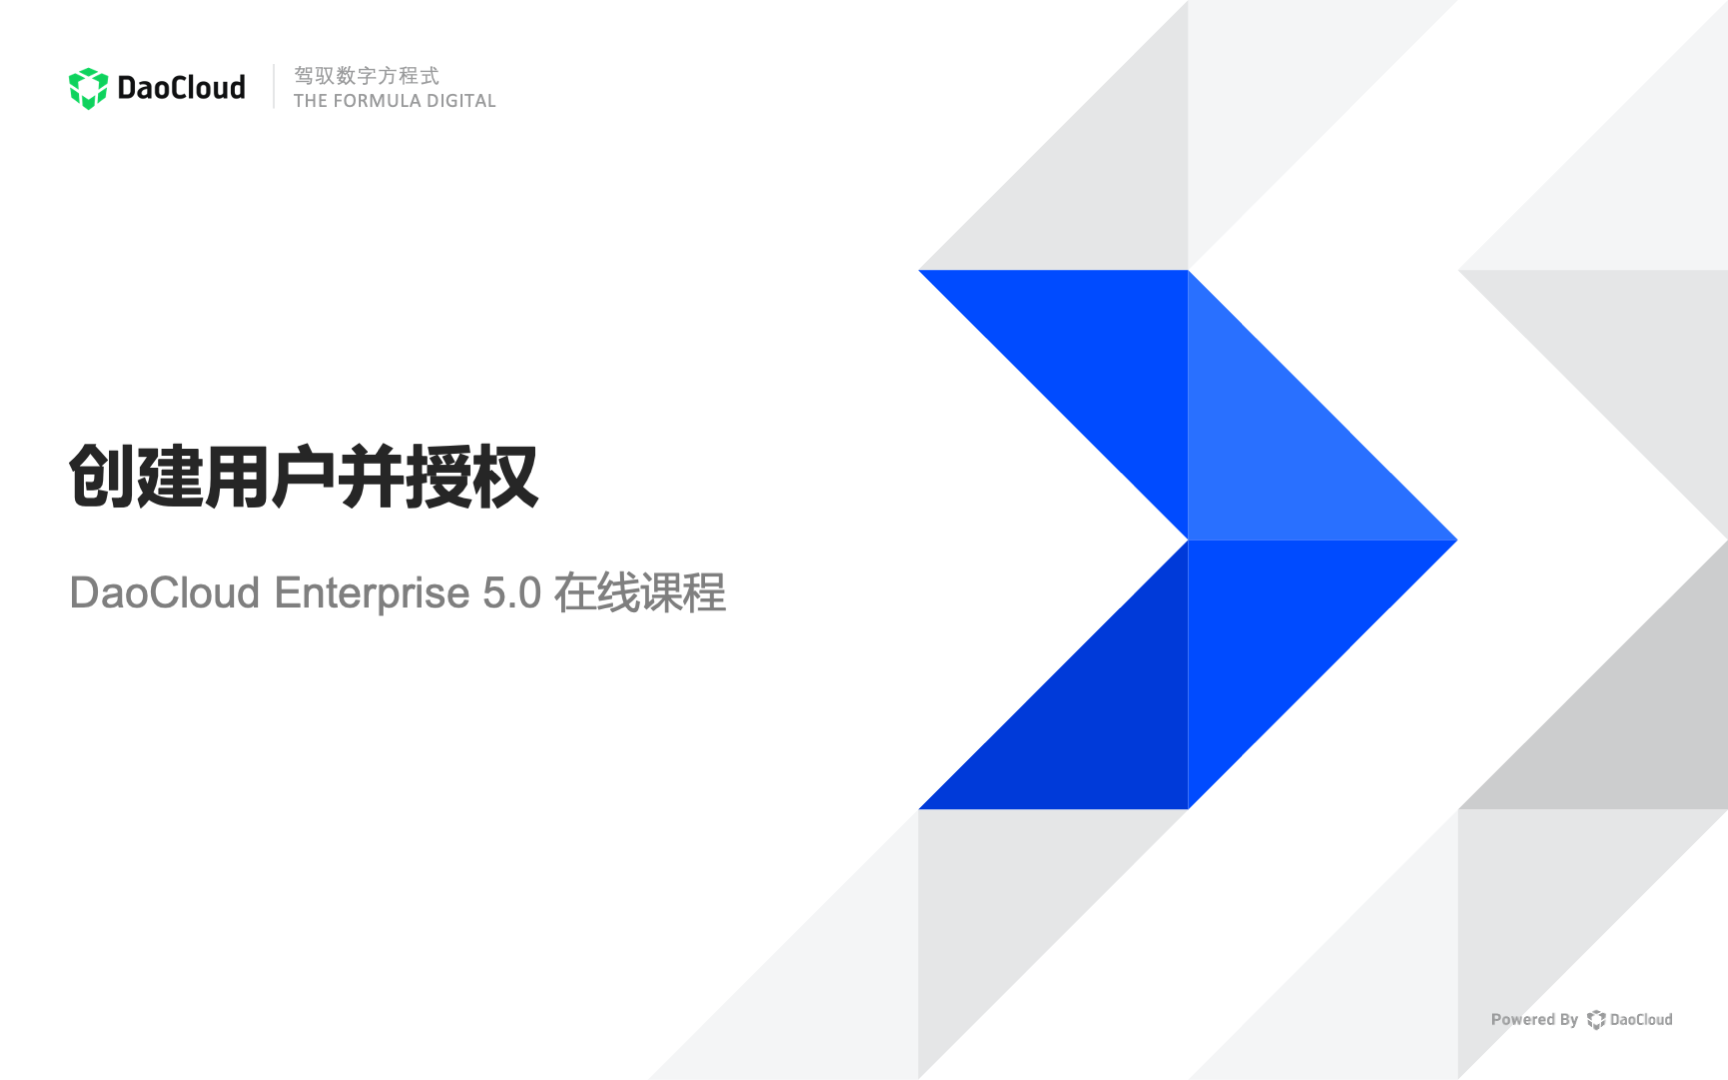
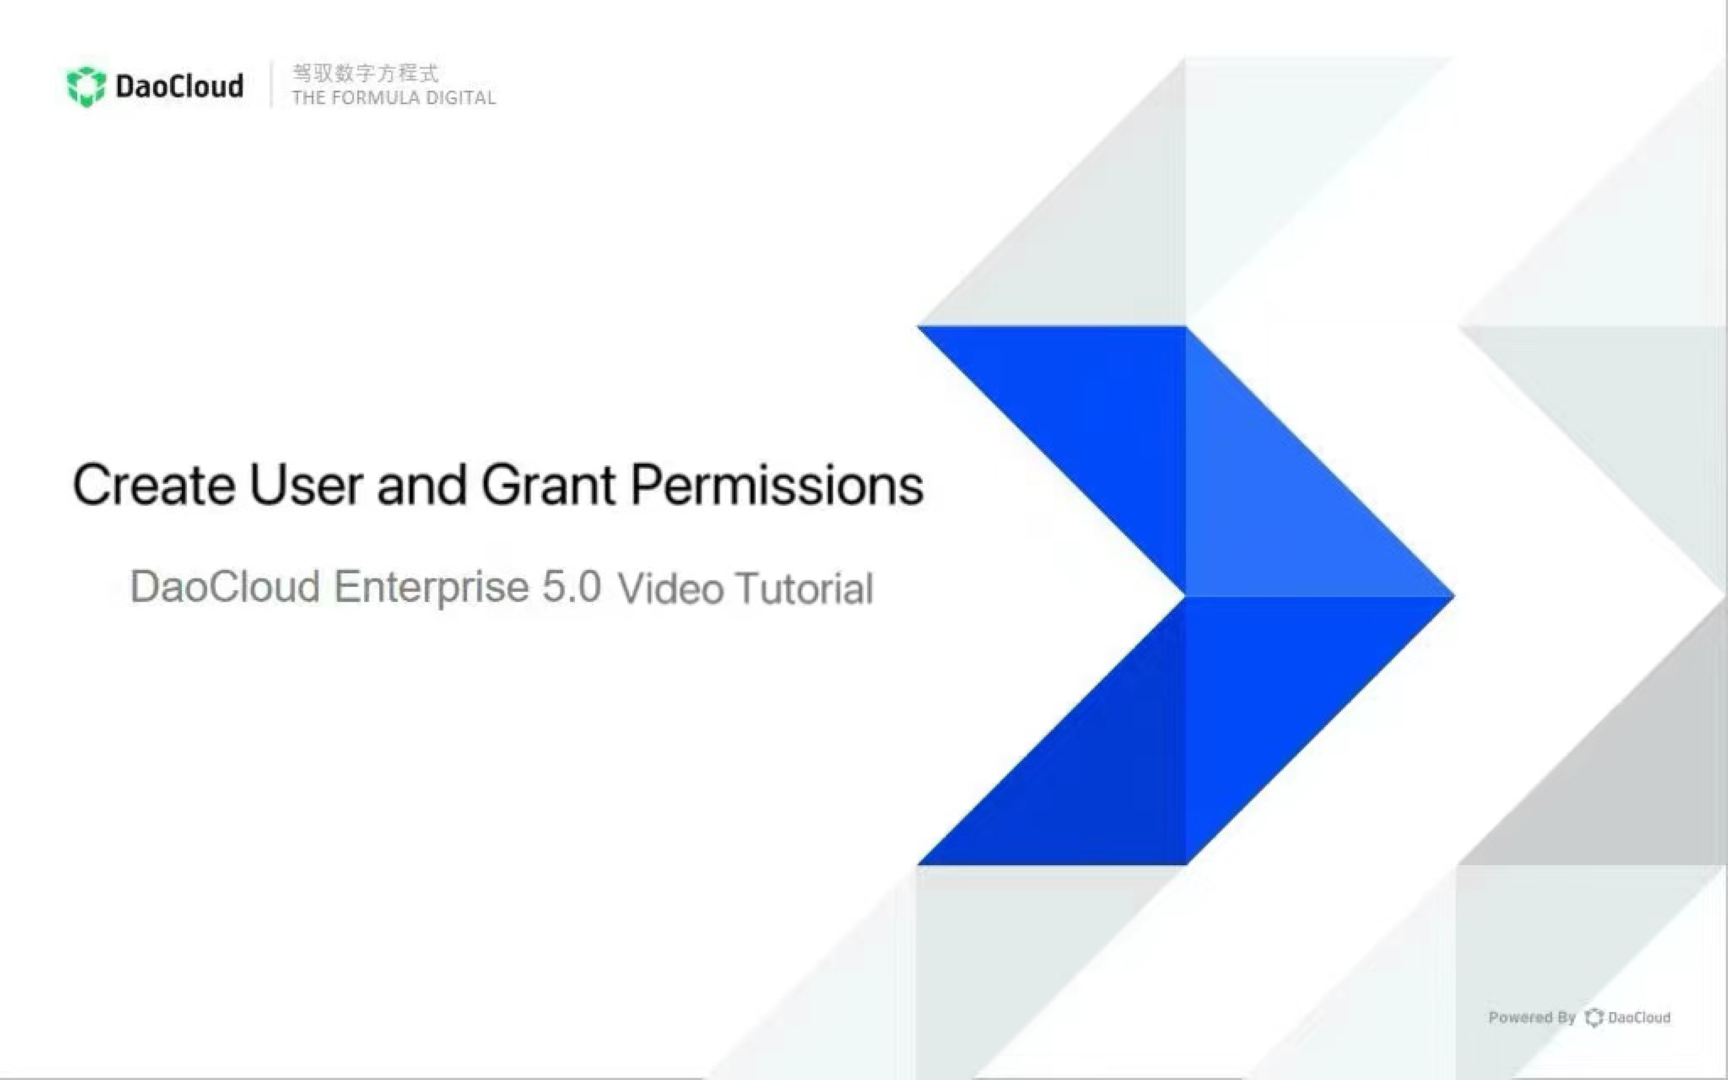
update a video and a picture in en/videos/ghippo.html

diff --git a/docs/en/docs/videos/ghippo.md b/docs/en/docs/videos/ghippo.md
@@ -12,7 +12,7 @@ We sincerely appreciate any feedback you may have. Thank you 🙏
 Refer to the [Create Users and Grant Permissions](../ghippo/user-guide/access-control/user.md) documentation page.
 
 <div class="responsive-video-container">
-<video controls src="https://harbor-test2.cn-sh2.ufileos.com/docs/videos/create-user.mp4" preload="metadata" poster="images/ghippo-user.png"></video>
+<video controls src="https://harbor-test2.cn-sh2.ufileos.com/docs/videos/create-user-en.mp4" preload="metadata" poster="images/ghippo-user.png"></video>
 </div>
 
 ### Integration with LDAP Users and User Groups
